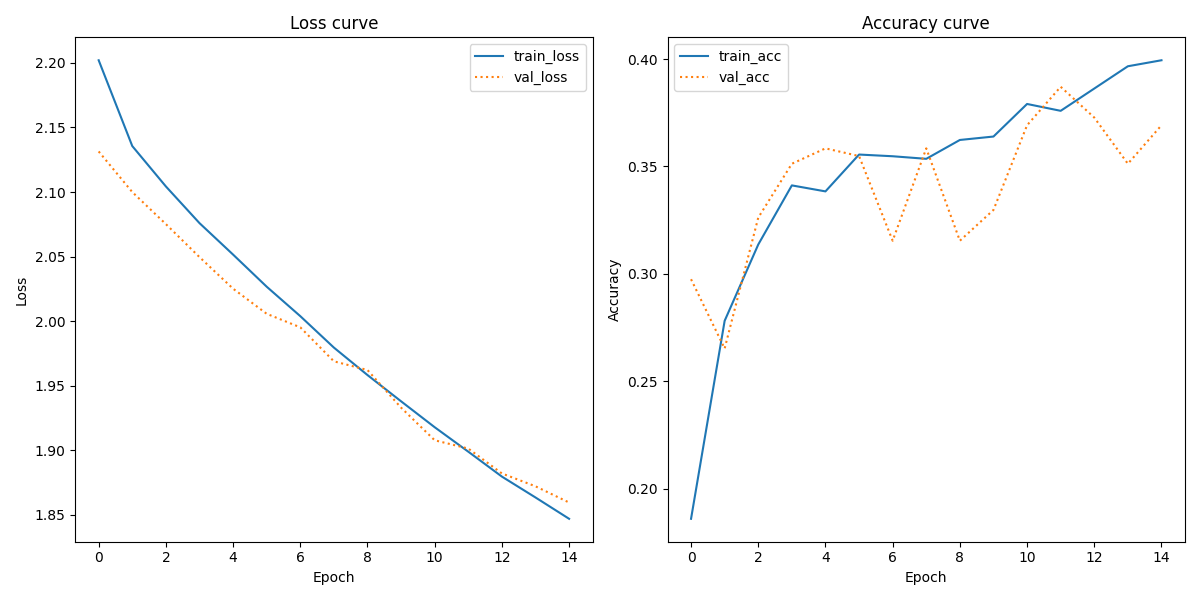
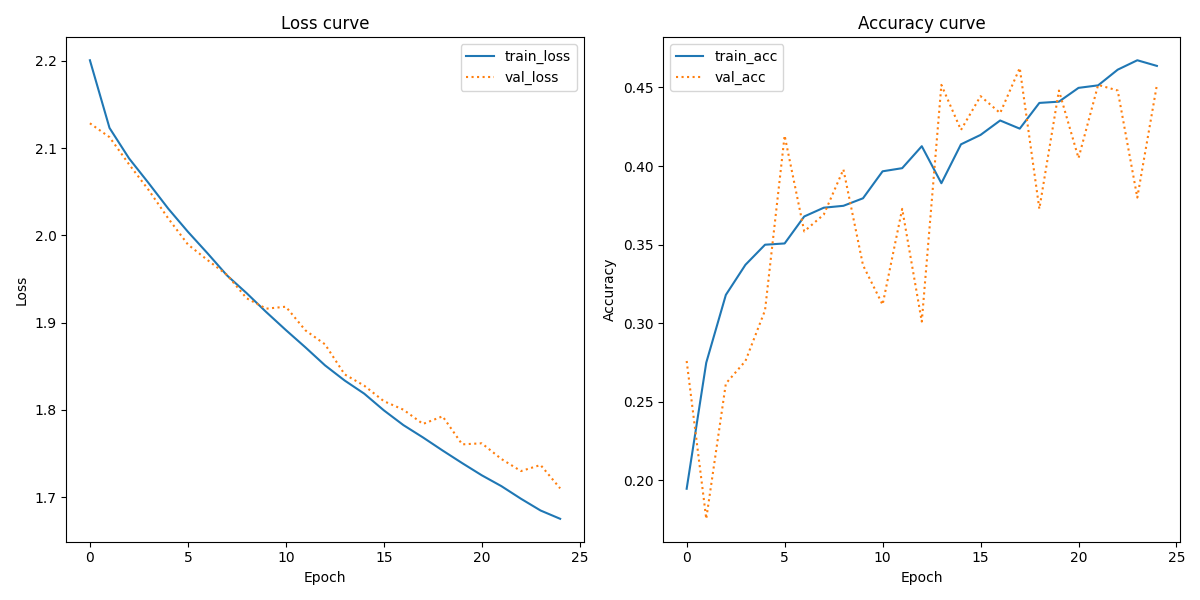
just missing requirements.txt

diff --git a/Assignments/Assignment3/src/Assignment3.py b/Assignments/Assignment3/src/Assignment3.py
@@ -161,7 +161,7 @@ def main():
     sgd = learning_rate()
     model = compile_model(sgd, model)
     
-    epochs = 15
+    epochs = 25
     H = train_model(model, X_train, y_train, epochs)
     
     plot_history(H, epochs)

diff --git a/Assignments/Assignment3/README.md b/Assignments/Assignment3/README.md
@@ -1,0 +1,25 @@
+# Assignment 3 in Visual analytics
+
+### Assignment Discription
+In this assignment I have solved the following tasks:
+- Loads the Tobacco3482 data and generates labels for each image
+- Train a classifier to predict document type based on visual features
+- Present a classification report and learning curves for the trained classifier
+- Your repository should also include a short description of what the classification report and learning curve show.
+
+### Data
+The data I have used in this assignment, is the dataset called Tobacco3482, which can be found [here](https://www.kaggle.com/datasets/patrickaudriaz/tobacco3482jpg?resource=download).
+
+The model I have used to train the data is the model called VGG16, which you can find more information about [here](https://www.geeksforgeeks.org/vgg-16-cnn-model/).
+
+### Reproducebility 
+I have created a requirements.txt file that can be run from the terminal using the code ```pip install -r requirements.txt```
+
+To run the code of the entire script in the terminal you can use the code ```python src/Assignment3.py```
+
+### Results
+When running the code, the output is a classification report and a loss curve plot, which can be found in the **out** folder.
+
+In this case I have run the code with 25 epochs. When looking at the classification report that gives me an accuracy of 46%, which I think is pretty good, considering the data is all different types of text and they are only in black and white.
+
+However, wehen looking at the loss curve for the code is shows signs of it beginning to overfit in the last epochs. I could have run the code using only 20 epochs, which would have shown less overfitting. But the curve is not even close to flattening out, so there might be other approaches that could have been better. I might have gotten a better result if I have done some data augmentation, whilst still using the VGG16 model. Or maybe I should have used a different model, that might have worked better on this particular dataset or even trained my own classifier on the data.
